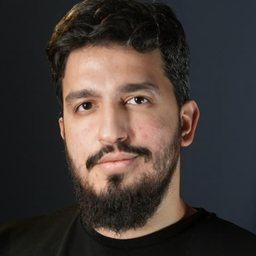
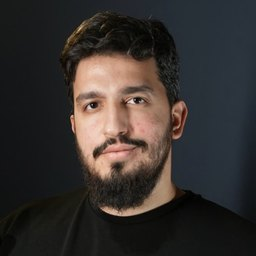
Demo: kronometrede görev seçimi, mesaj düğmesi sadeleşti, fotoğraf daha geniş kadraj
Claude-Session: https://claude.ai/code/session_01XU59kfYKCcNZXKL7rJjU3f

Changed region(s): [[0.1875, 0.0, 1.0, 0.9375], [0.375, 0.2812, 0.4062, 0.3125]]

diff --git a/public/index.html b/public/index.html
@@ -1485,17 +1485,17 @@ body.dersacik{overflow:hidden}
 .nb.fab .bub .fabt{font-size:14px;font-weight:800;letter-spacing:-.02em;color:var(--acfg)}
 @media (prefers-reduced-motion:reduce){.ckdot,.nb.fab.canli .bub{animation:none}}
 
-/* Mesaj düğmesi: üst çubukta belirgin, hocanın fotoğrafıyla */
-.msgpill{position:relative;display:inline-flex;align-items:center;gap:8px;height:42px;padding:0 14px 0 3px;border:0;border-radius:999px;background:linear-gradient(160deg,var(--ac),var(--ac2));color:var(--acfg);font:inherit;font-weight:800;font-size:13.5px;cursor:pointer;flex:none;box-shadow:0 4px 12px color-mix(in srgb,var(--ac) 35%,transparent);white-space:nowrap}
-.msgpill img{width:36px;height:36px;border-radius:50%;object-fit:cover;border:2px solid #fff;flex:none}
+/* Mesaj düğmesi: üst çubukta, hocanın fotoğrafıyla (sade; yeni mesajda canlanır) */
+.msgpill{position:relative;display:inline-flex;align-items:center;gap:7px;height:38px;padding:0 13px 0 3px;border:0;border-radius:999px;background:var(--surface);color:var(--ac);font:inherit;font-weight:800;font-size:13px;cursor:pointer;flex:none;box-shadow:var(--shadow);white-space:nowrap}
+.msgpill img{width:32px;height:32px;border-radius:50%;object-fit:cover;flex:none}
 .msgpill .msgpillic{display:none}
 .msgpill .dot{position:absolute;top:-5px;right:-5px}
 .msgpill.yeni{animation:msgp 1.8s infinite}
-@keyframes msgp{0%,100%{box-shadow:0 4px 12px color-mix(in srgb,var(--ac) 35%,transparent),0 0 0 0 color-mix(in srgb,var(--ac) 50%,transparent)}50%{box-shadow:0 4px 12px color-mix(in srgb,var(--ac) 35%,transparent),0 0 0 8px transparent}}
-.iconbtn.msgvurgu{background:linear-gradient(160deg,var(--ac),var(--ac2));color:var(--acfg)}
-@media (max-width:440px){.msgpill{padding:0;width:44px;height:44px;justify-content:center;background:none;box-shadow:none}.msgpill>span:not(.dot){display:none}
-  .msgpill img{width:44px;height:44px;border:3px solid var(--ac);box-shadow:0 4px 12px color-mix(in srgb,var(--ac) 35%,transparent)}
-  .msgpill .msgpillic{display:grid;place-items:center;position:absolute;right:-4px;bottom:-3px;width:21px;height:21px;border-radius:50%;background:var(--ac);color:var(--acfg);border:2px solid var(--surface)}.msgpill .msgpillic svg{width:11px;height:11px}
+@keyframes msgp{0%,100%{box-shadow:var(--shadow),0 0 0 0 color-mix(in srgb,var(--ac) 45%,transparent)}50%{box-shadow:var(--shadow),0 0 0 7px transparent}}
+.iconbtn.msgvurgu{color:var(--ac)}
+@media (max-width:440px){.msgpill{padding:0;width:36px;height:36px;justify-content:center;background:none;box-shadow:none}.msgpill>span:not(.dot){display:none}
+  .msgpill img{width:36px;height:36px;border:2px solid var(--surface);box-shadow:var(--shadow)}
+  .msgpill .msgpillic{display:grid;place-items:center;position:absolute;right:-3px;bottom:-2px;width:17px;height:17px;border-radius:50%;background:var(--ac);color:var(--acfg);border:2px solid var(--surface)}.msgpill .msgpillic svg{width:9px;height:9px}
   .msgpill .dot{top:-4px;right:-4px}}
 @media (prefers-reduced-motion:reduce){.msgpill.yeni{animation:none}}
 /* Sohbette hocanın fotoğrafı ve sesli mesaj */
@@ -1533,6 +1533,18 @@ body.dersacik{overflow:hidden}
 .k1 .kpb{height:64px;background:linear-gradient(#F5B301,#D69E2E)}.k1 .kpb svg{width:28px}.k2 .kpb{height:46px;background:linear-gradient(#CBD5E1,#94A3B8)}.k3 .kpb{height:34px;background:linear-gradient(#F59E0B,#B45309)}
 .kalt{display:flex;flex-wrap:wrap;gap:6px 14px;justify-content:center;margin-top:8px;font-size:13px}.kalt small{color:var(--muted)}
 .odben{margin:0;text-align:center;font-weight:700;color:var(--ac)}
+
+/* Çalışma kartı: görev seçimi */
+.cksec{display:flex;flex-direction:column;gap:8px;background:var(--acs);border-radius:16px;padding:12px}
+.cklist{display:flex;flex-direction:column;gap:6px;max-height:252px;overflow:auto;margin:0 -2px;padding:0 2px}
+.ckg{display:flex;align-items:center;gap:10px;min-height:46px;padding:8px 12px;border-radius:12px;border:2px solid transparent;background:var(--surface);color:var(--fg);font:inherit;font-weight:600;font-size:14.5px;text-align:left;cursor:pointer}
+.ckg i{width:20px;height:20px;border-radius:50%;border:2px solid var(--line);flex:none;display:grid;place-items:center}
+.ckg span{flex:1;min-width:0;overflow-wrap:anywhere;line-height:1.3}
+.ckg small{color:var(--muted);font-weight:700;flex:none}
+.ckg.on{border-color:var(--ac);background:color-mix(in srgb,var(--ac) 8%,var(--surface))}
+.ckg.on i{border-color:var(--ac);background:radial-gradient(circle,var(--ac) 0 45%,transparent 50%)}
+.ckbtn.full{width:100%;flex-wrap:wrap;min-height:52px}
+.ckbas{display:block;width:100%;font-size:12px;font-weight:600;opacity:.85;white-space:nowrap;overflow:hidden;text-overflow:ellipsis;margin-top:-2px}
 </style>
 <script>/* Açılış animasyonu: en az ~1,6 sn görünür, uygulama hazır olunca kaybolur; her durumda en geç 5 sn */
 (function(){ var t0 = Date.now(), az = matchMedia("(prefers-reduced-motion: reduce)").matches ? 500 : 1600, kapandi = false;

diff --git a/public/app.js b/public/app.js
@@ -845,7 +845,7 @@ function taskRow(t, date, opts={}){
   const sira = opts.next===t.id && !run;
   return `<div class="task ${t.done?"done":""} ${run?"running":""} ${sira?"sira":""}">
     <button class="tick" data-act="tick" data-date="${date}" data-id="${t.id}" aria-pressed="${!!t.done}" aria-label="${t.done?"Tamamlandı":"Tamamla"}">${icon("check","sm")}</button>
-    <div style="min-width:0">${sira?`<span class="siratag">Sıradaki</span>`:""}<div class="tt" style="font-weight:600">${esc(taskText(t))}</div>${gorevHedef(s, date, taskText(t))}${t.dk?`<div class="thd"><span>${icon("timer","xs")}${fmtMin(t.dk)} çalıştın</span></div>`:""}${sayac}</div>
+    <div style="min-width:0">${sira?`<span class="siratag">Seçili</span>`:""}<div class="tt" style="font-weight:600">${esc(taskText(t))}</div>${gorevHedef(s, date, taskText(t))}${t.dk?`<div class="thd"><span>${icon("timer","xs")}${fmtMin(t.dk)} çalıştın</span></div>`:""}${sayac}</div>
     ${sag}
   </div>`;
 }
@@ -901,8 +901,10 @@ function calismaKart(s, sira){
       ${ozet}</div>`; }
   return `<div class="card ck">
     ${ozet}
-    ${sira ? `<div class="cksira"><div style="min-width:0;flex:1"><span class="cksl">Sıradaki görev</span><div class="ckst">${esc(taskText(sira))}</div></div>
-      <button class="ckbtn go" data-act="tgbasla" data-date="${t}" data-id="${sira.id}">${icon("play","sm")} Başla</button></div>`
+    ${sira ? (()=>{ const acik = l.filter(x=>!x.done), sec = acik.find(x=>x.id===S.ckSec) || sira, cok = acik.length > 1;
+      return `<div class="cksec"><span class="cksl">${cok ? "Hangi göreve çalışacaksın?" : "Sıradaki görev"}</span>
+        <div class="cklist" role="radiogroup" aria-label="Görev seç">${acik.map(x=>`<button class="ckg ${x.id===sec.id?"on":""}" role="radio" aria-checked="${x.id===sec.id}" data-act="cksec" data-v="${x.id}"><i></i><span>${esc(taskText(x))}</span></button>`).join("")}</div>
+        <button class="ckbtn go full" data-act="tgbasla" data-date="${t}" data-id="${sec.id}">${icon("play","sm")} Başla</button></div>`; })()
       : `<div class="cksira"><div class="ckst">${l.length ? "Bugünün görevlerini bitirdin 💪" : "Bugün için görev yok"}</div></div>`}
     <button class="cklink" data-act="tstart">${icon("timer","xs")} Görev seçmeden serbest çalış</button></div>`; }
 function studentProgram(s){
@@ -914,7 +916,7 @@ function studentProgram(s){
   let body;
   if(S.pmode==="gun"){
     const d = S.day && PD.includes(S.day) ? S.day : (PD.includes(t) ? t : w);
-    const l = dayTasks(s,d), dn = l.filter(x=>x.done).length, sira = d===t ? siradaki(s,t) : null;
+    const l = dayTasks(s,d), dn = l.filter(x=>x.done).length, sira = d===t ? (l.find(x=>!x.done && x.id===S.ckSec) || siradaki(s,t)) : null;
     body = `${d===t?calismaKart(s, sira):""}<div class="card"><div class="sech"><h3>${GUN[dIdx(d)]}, ${shortDate(d)}${yaziliGun(s,d).map(x=>` <span class="pill warn">${esc(x)} yazılısı</span>`).join("")}</h3><span class="small ${dn===l.length&&l.length?"up":"muted"}" style="font-weight:700">${l.length?`${dn}/${l.length}`:""}</span></div>
       <div class="tasks" style="margin-top:4px">${l.length? l.map(x=>taskRow(x,d,{s, next:sira&&sira.id})).join("") : `<div class="empty">Bu gün için görev yok.</div>`}</div>${d===t?"":dayFooter(s,d)}
       ${d===t?`<button class="btn full" style="margin-top:12px" data-act="go" data-v="kronometre">${icon("chart","sm")} Haftalık çalışma grafiğim</button>`:""}</div>
@@ -3477,6 +3479,7 @@ document.addEventListener("click", e=>{
     case "sb": mutate(s=>{ const t=topic(s,b.dataset.k); t[b.dataset.f]=!t[b.dataset.f]; }); keepOpen(()=>render()); break;
     case "ddel": { if(!b.dataset.armed){ b.dataset.armed="1"; b.style.color="var(--bad)"; b.style.borderColor="var(--bad)"; toast("Silmek için tekrar dokun"); setTimeout(()=>{ if(b.isConnected){ delete b.dataset.armed; b.style.color=""; b.style.borderColor=""; } },2500); break; }
       mutate(s=>{ const dd = (s.denemeler||[]).find(d=>d.id===b.dataset.id); if(dd && dd.yk) Object.entries(dd.yk).forEach(([k,n])=>{ const tp = (s.topics||{})[k]; if(tp){ tp.y = Math.max(0,(tp.y||0)-n); if(!tp.y) delete tp.y; } }); s.denemeler=s.denemeler.filter(d=>d.id!==b.dataset.id); }); render(); toast("Deneme silindi"); break; }
+    case "cksec": S.ckSec = v; render(); break;
     case "tstart": mutate(s=>{ s.timer={start:Date.now(), cihaz:cihazTur(), ...(S.kDers?{ders:S.kDers}:{})}; }); render(); break;
     case "kders": S.kDers = S.kDers===v ? "" : v; render(); break;
     case "grsec": GR.sec = v; render(); break;
